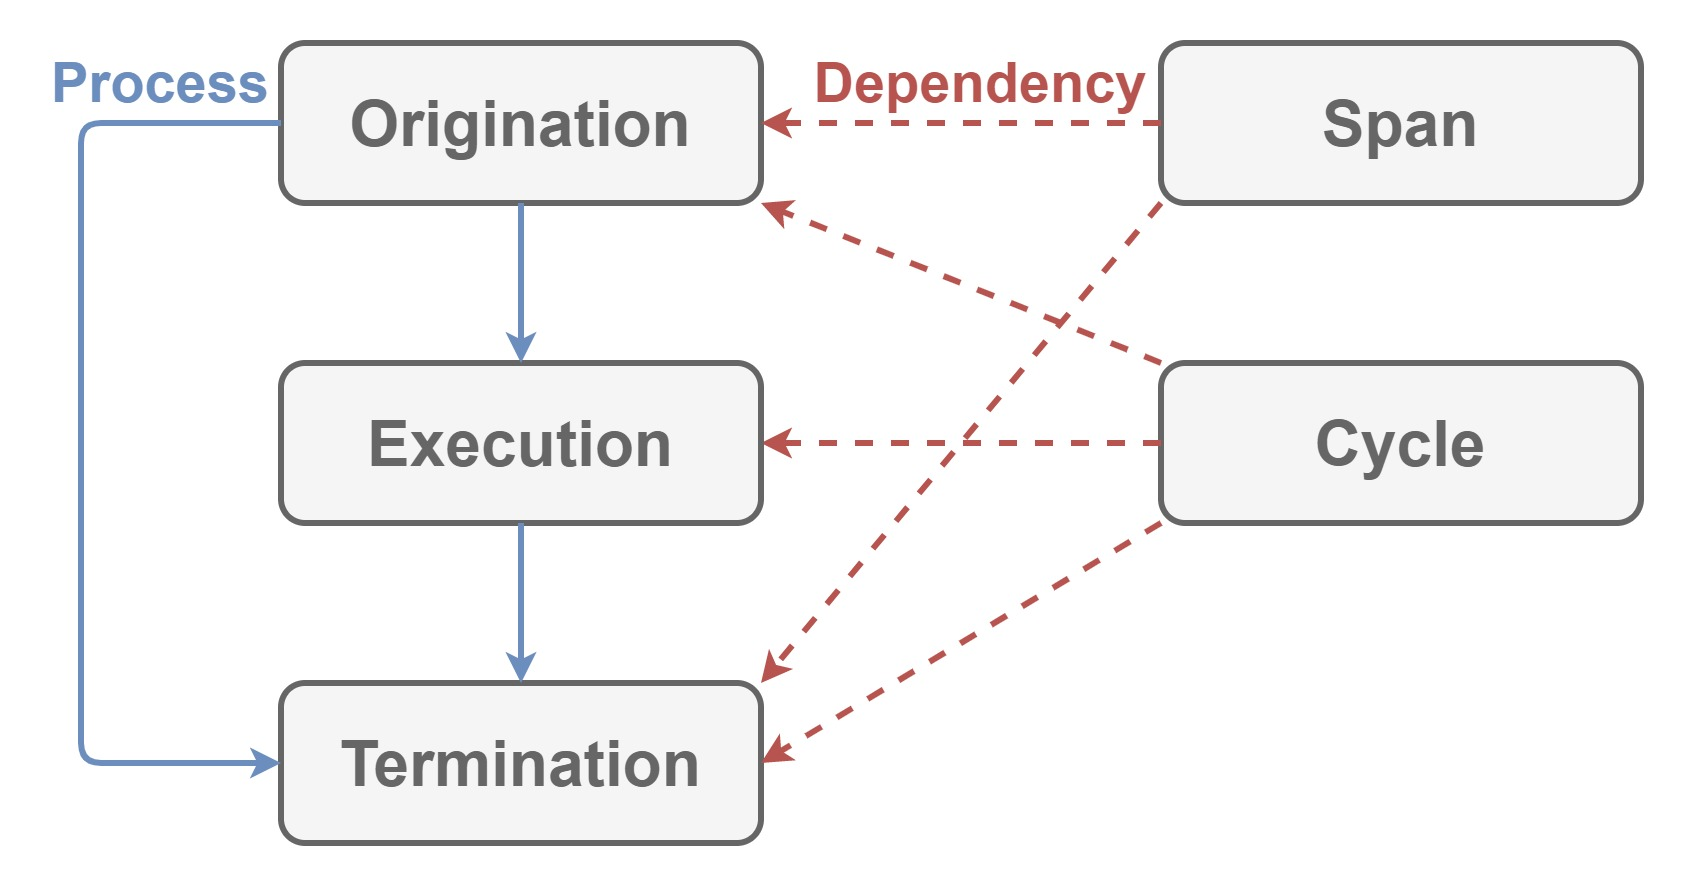
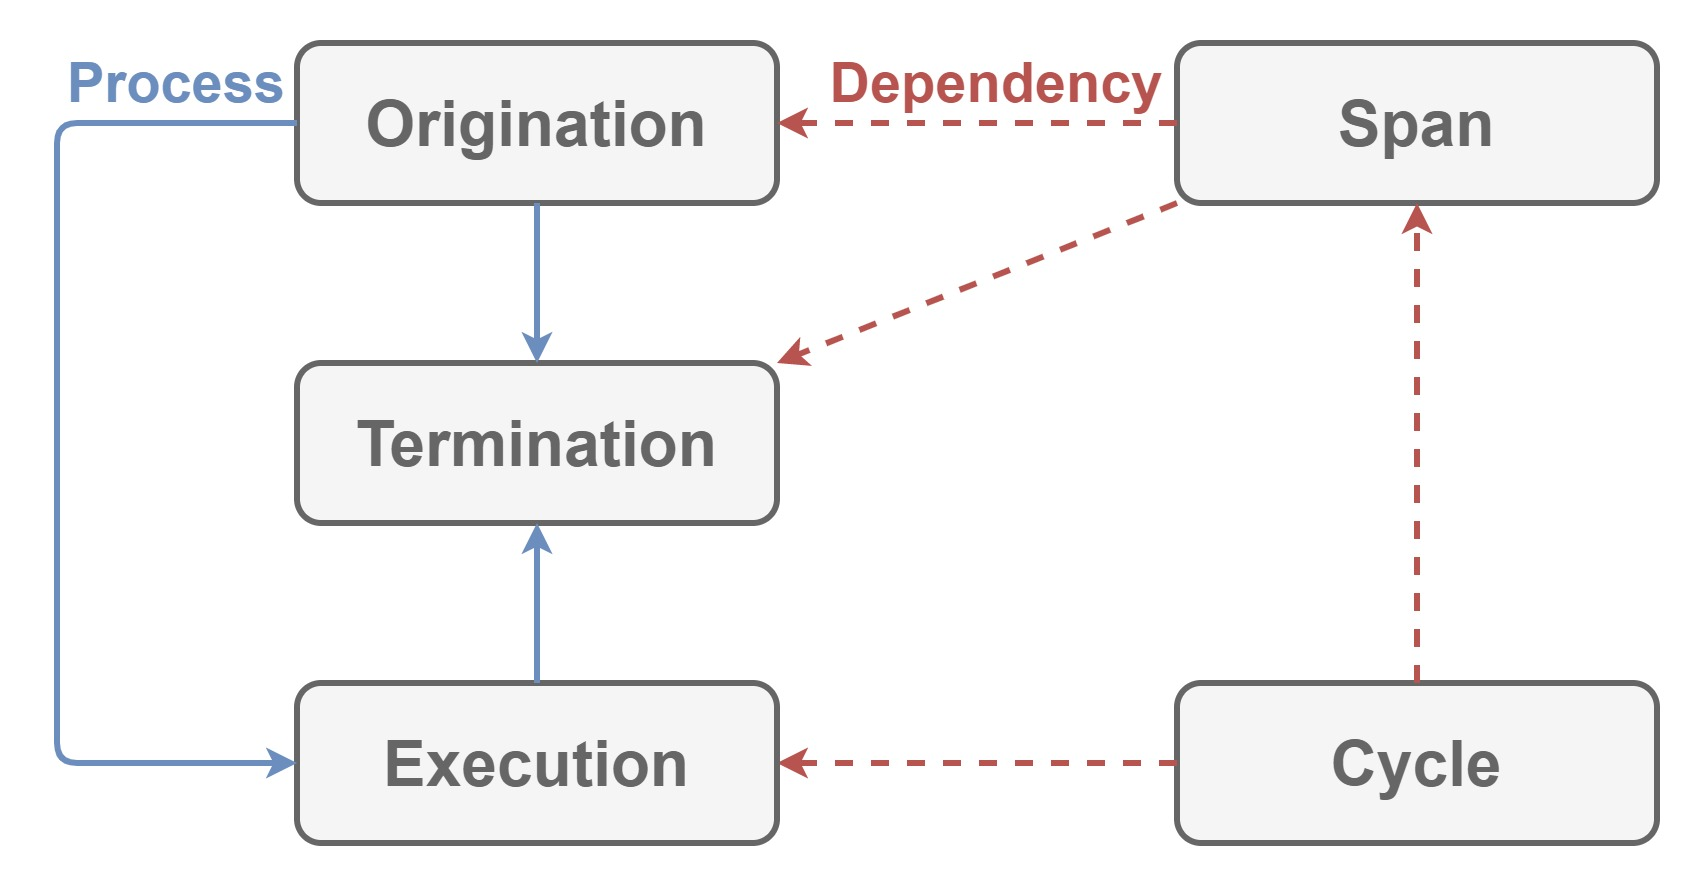
Modify documentation for framework

diff --git a/Documentation/Periodization.md b/Documentation/Periodization.md
@@ -1,10 +1,10 @@
 # Periodization
 
-This module defines
+This module defines how to
 
-- initialization
-- running
-- finalization
+- initialize
+- run
+- finalize
 
 for your
 
@@ -19,36 +19,22 @@ Nothing.
 
 ## Architecture
 
-![Image not found.](./Resources/Periodization.jpg "Architecture of Periodization.")
-
 | Word | Abstraction |
-|:-----------|:------------|
+|:-|:-|
 | Origination | Token to initialize. |
 | Termination | Token to finalize. |
 | Execution | Token to run. |
 | Span | Lifetime from `Origination` to `Termination`. |
-| Cycle | Lifecycle for `Execution` between `Origination` and `Termination`. |
+| Cycle | Lifecycle for `Execution` between `Origination` and `Termination` of `Span`. |
 
 `Origination` initializes applications, infrastructures, and so on.
 `Termination` finalizes applications, infrastructures, and so on.
 `Execution` runs task for applications.
-`Span` is `Origination` and `Termination`.
-`Origination` and `Termination` can be converted to `Span`.
-`Cycle` is `Execution` between `Origination` and `Termination`.
-`Execution` and `Span` can be converted to `Cycle`.
-`Execution`, `Origination` and `Termination` can be converted to `Cycle`.
+`Span` has `Origination` and `Termination`, and can can be converted from them.
+`Cycle` has `Execution` and `Span`, and can be converted from them.
+
+![Image not found.](./Resources/Periodization.jpg "Architecture of Periodization.")
 
 ## Implementation
 
-Nothing because this module only defines defines
-
-- initialization
-- running
-- finalization
-
-for your
-
-- applications
-- infrastructures
-
-and so on.
+Nothing except internal implementations for [Periodization](./Periodization.md).

diff --git a/README.md b/README.md
@@ -1,4 +1,10 @@
-# YggdrAshill.Ragnarok: the lifecycle framework
+# YggdrAshill.Ragnarok: a lifecycle framework
+
+![GitHub](https://img.shields.io/github/license/do-i-know-it/YggdrAshill.Ragnarok)
+![GitHub Release Date](https://img.shields.io/github/release-date/do-i-know-it/YggdrAshill.Ragnarok)
+![GitHub last commit](https://img.shields.io/github/last-commit/do-i-know-it/YggdrAshill.Ragnarok)
+![GitHub repo size](https://img.shields.io/github/repo-size/do-i-know-it/YggdrAshill.Ragnarok)
+![GitHub code size in bytes](https://img.shields.io/github/languages/code-size/do-i-know-it/YggdrAshill.Ragnarok)
 
 Ragnarok defines how to
 
@@ -37,15 +43,16 @@ Please see [Sample applications](https://github.com/do-i-know-it/YggdrAshill.Rag
 This framework consists of core modules below.
 
 - [Periodization](./Documentation/Periodization.md)
+- [Construction](./Documentation/Construction.md)
 
-## Implementation
-
-This framework includes [Implementation](./Documentation/Implementation.md) to provide
+[Implementation](./Documentation/Implementation.md) module is an entry point of this framework, providing
 
 - implementations
 - extensions
 
-for above.
+for core modules.
+
+![Image not found.](./Documentation/Resources/FrameworkArchitecture.jpg "Architecture of this framework.")
 
 ## Known issues
 
@@ -57,7 +64,7 @@ Please see [GitHub Projects](https://github.com/do-i-know-it/YggdrAshill.Ragnaro
 
 ## License
 
-This framework is under the [MIT License](https://opensource.org/licenses/mit-license.php), see [LICENSE](./LICENSE.txt).
+This framework is under the [MIT License](https://opensource.org/licenses/mit-license.php), see [LICENSE](./LICENSE.md).
 
 ## Remarks
 

diff --git a/Documentation/Implementation.md b/Documentation/Implementation.md
@@ -1,30 +1,28 @@
 # Implementation of YggdrAshill.Ragnarok
 
-This module provides
-
-- implementations
-- extensions
-
-for [Progression](./Progression.md).
+This module is an entry point of this framework, helping developers to use it in ease.
 
 ## Dependencies
 
-This module depends [Progression](./Progression.md).
+This module depends on all of other modules:
+
+- [Progression](./Progression.md)
+- [Construction](./Construction.md)
 
 ## Architecture
 
-This module implements
+This module provides
 
-- interfaces
-- extensions
+- simple implementations
+- useful extensions
 
-in order developers to use this framework in ease.
+for other modules.
 
 ## Implementation
 
-This module provides
+This module makes developers use
 
-- implementations
-- extensions
+- `System.Action`
+- `System.Function`
 
-for [Progression](./Progression.md) with `System.Action` or `System.Function`.
+to implement interfaces of the modules.

diff --git a/Documentation/Construction.md b/Documentation/Construction.md
@@ -1,0 +1,26 @@
+# Construction
+
+This module extends [Periodization](./Periodization.md) to define how to
+
+- configure
+- build
+
+XR applications.
+
+## Dependencies
+
+This module depends on [Periodization](./Periodization.md).
+
+## Architecture
+
+| Word | Abstraction |
+|:-|:-|
+| Service | Builder for `Cycle`. |
+
+`Service` configures `Origination`, `Termination`, `Execution` and `Span` to build `Cycle`.
+
+![Image not found.](./Resources/Construction.jpg "Architecture of Construction.")
+
+## Implementation
+
+Nothing except internal implementations for [Construction](./Construction.md).
